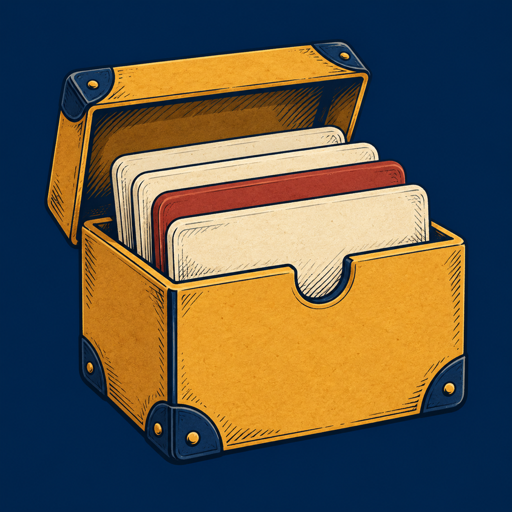
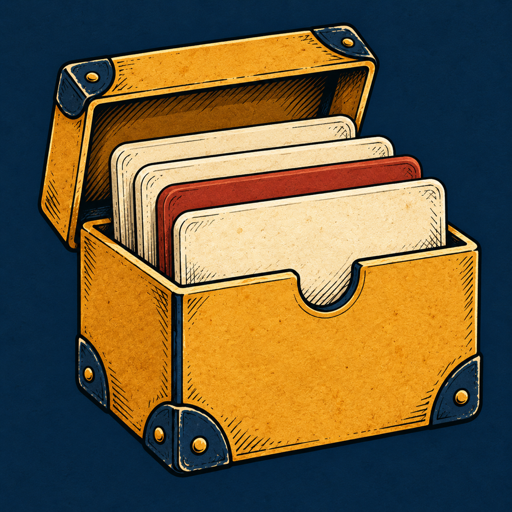
Blend deck identity with the app comic illustration style

diff --git a/index.html b/index.html
@@ -8,8 +8,8 @@
 <meta name="mobile-web-app-capable" content="yes">
 <meta name="apple-mobile-web-app-status-bar-style" content="black-translucent">
 <meta name="apple-mobile-web-app-title" content="Becoming a Clerk">
-<link rel="apple-touch-icon" href="apple-touch-icon.png?v=deck3">
-<link rel="icon" type="image/png" href="favicon.png?v=deck3">
+<link rel="apple-touch-icon" href="apple-touch-icon.png?v=deck-refined">
+<link rel="icon" type="image/png" href="favicon.png?v=deck-refined">
 <title>Becoming a Clerk</title>
 <meta name="description" content="Prepare for the New York court clerk exam with rule cards, lessons and practice questions.">
 <!-- Link previews (iMessage, Facebook, Slack, etc.). Previews need full web addresses. -->
@@ -1101,7 +1101,7 @@ button.row:active,.gcard:active,.mini:active,.tile2:active,.hero:active,.quick:a
 #splash::before{content:"";position:absolute;inset:0;pointer-events:none;background:radial-gradient(ellipse at 50% 52%,rgba(227,178,60,.13),transparent 62%)}
 .sp-frame{position:relative;width:min(100%,580px);display:flex;flex-direction:column;align-items:center;text-align:center;gap:clamp(20px,4vh,40px)}
 .cq-brand{display:flex;align-items:center;justify-content:center;gap:10px;color:#f1e5c9}
-.cq-brand-mark{display:block;width:76px;height:76px;object-fit:contain;flex:none}
+.cq-brand-mark{border-radius:20%;display:block;width:76px;height:76px;object-fit:contain;flex:none}
 .cq-brand-name{margin:0;font:400 42px/.9 "Luckiest Guy",sans-serif;letter-spacing:-.025em;text-align:left;white-space:nowrap;text-shadow:2px 3px 0 #080706}
 .cq-brand-name span{display:block;color:#d94230;margin-top:5px}
 .cq-brand-start .cq-brand-mark{width:104px;height:104px}
